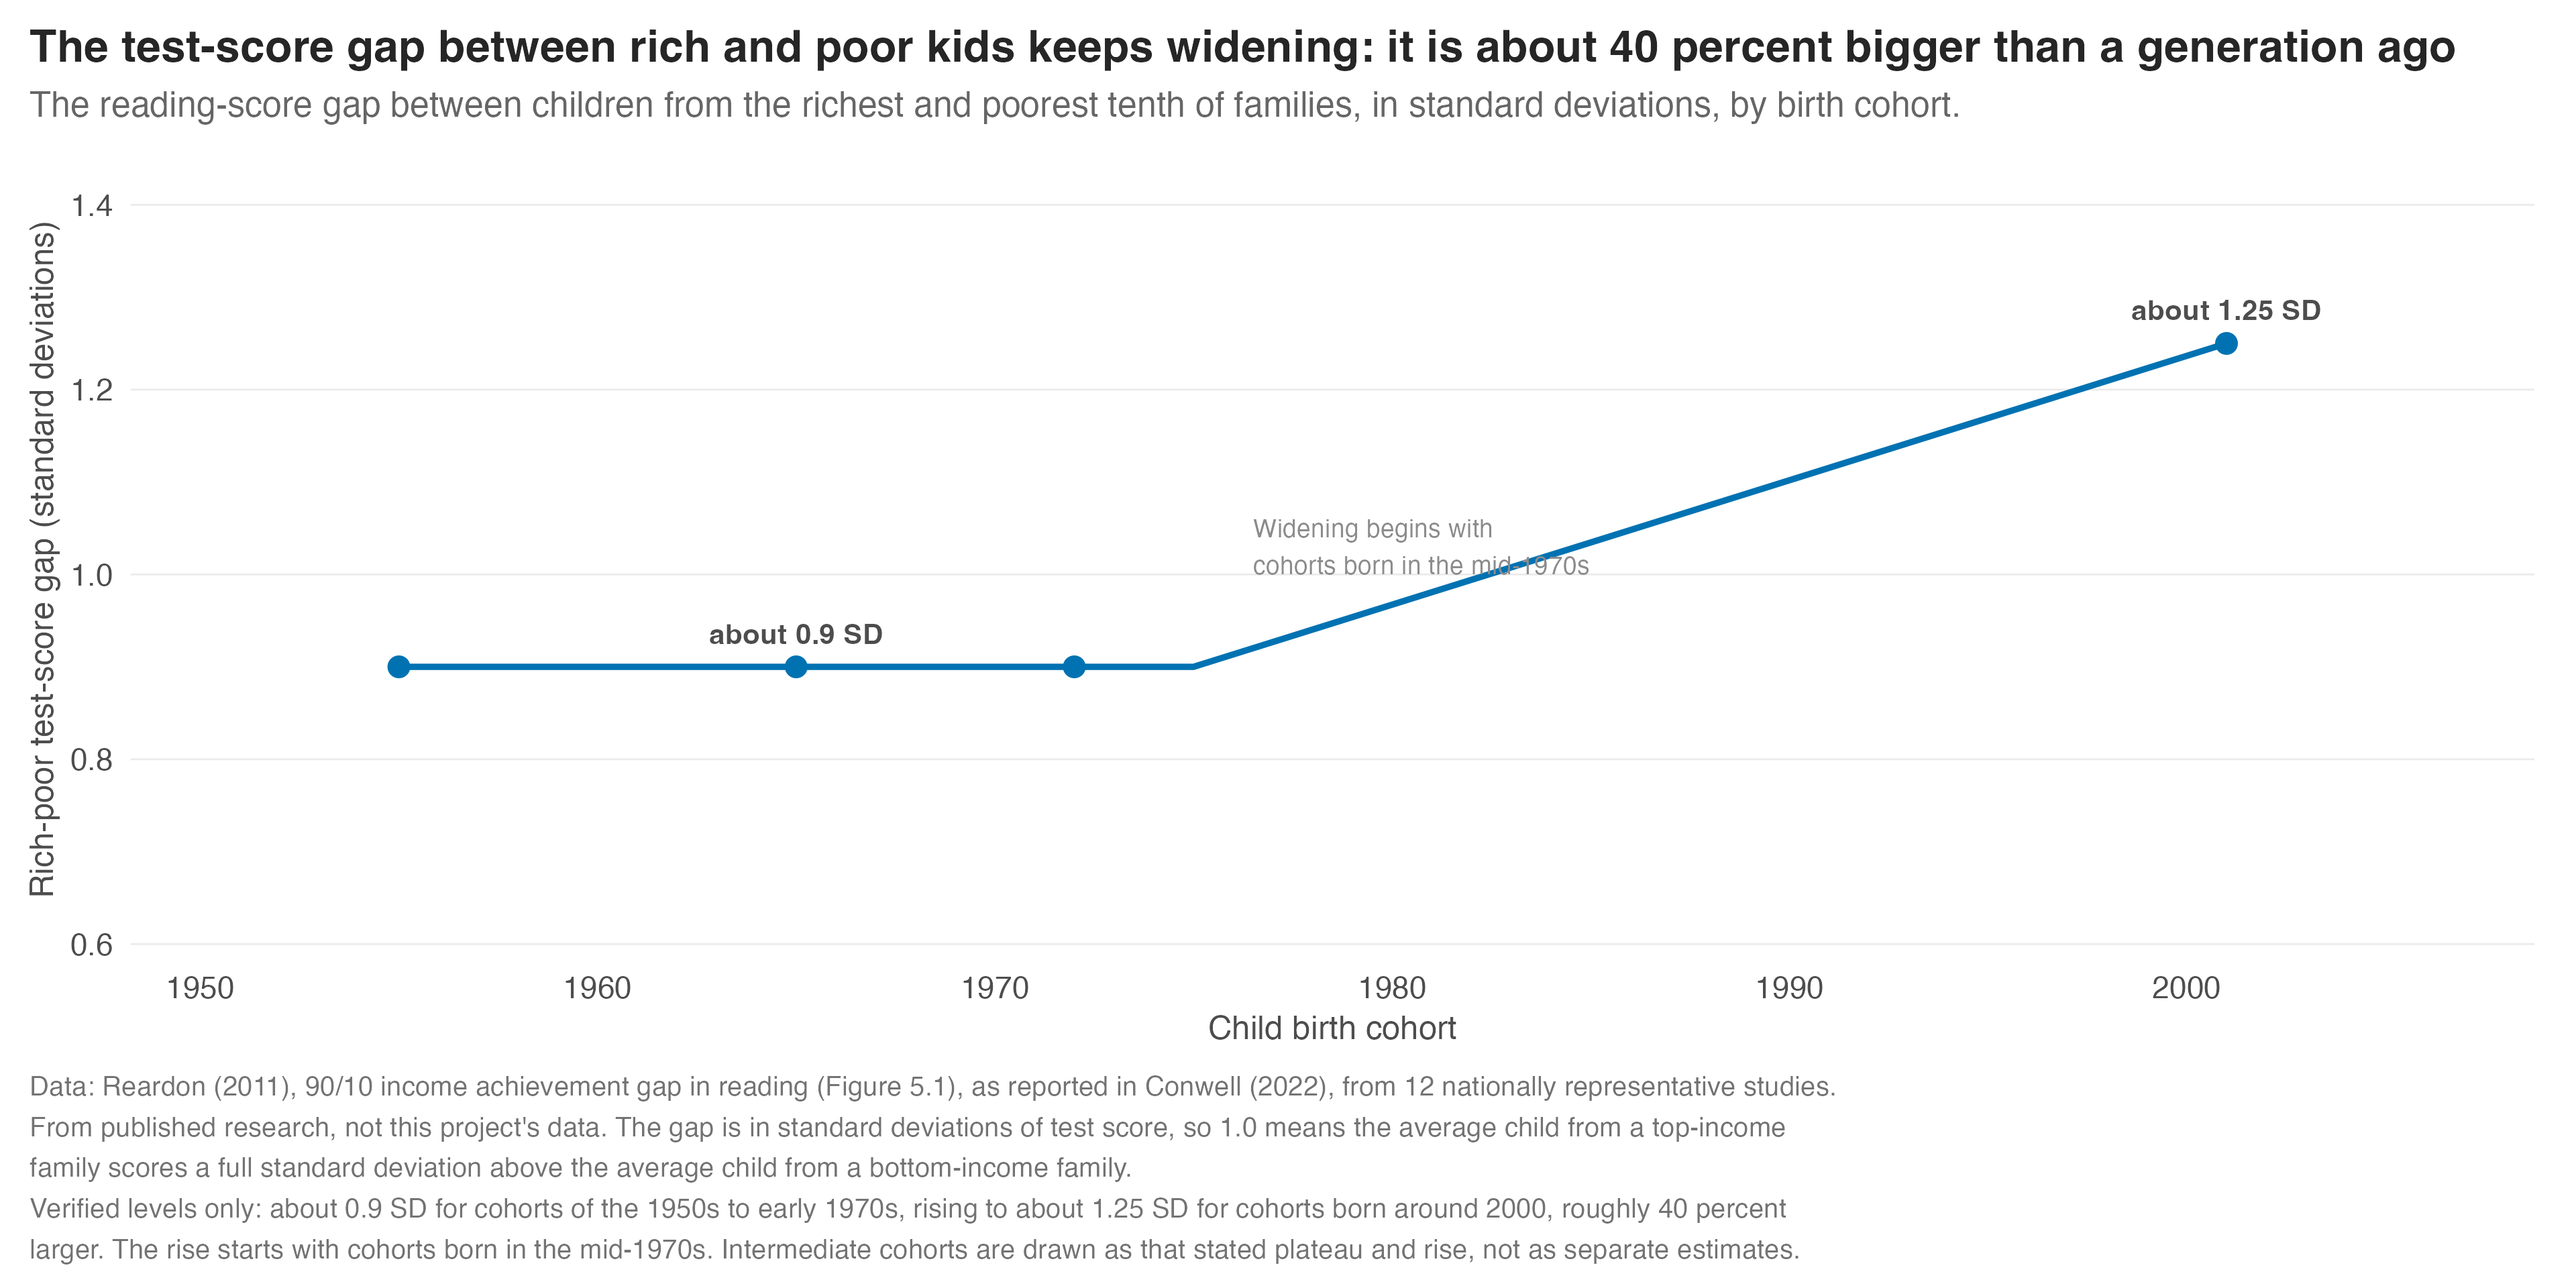
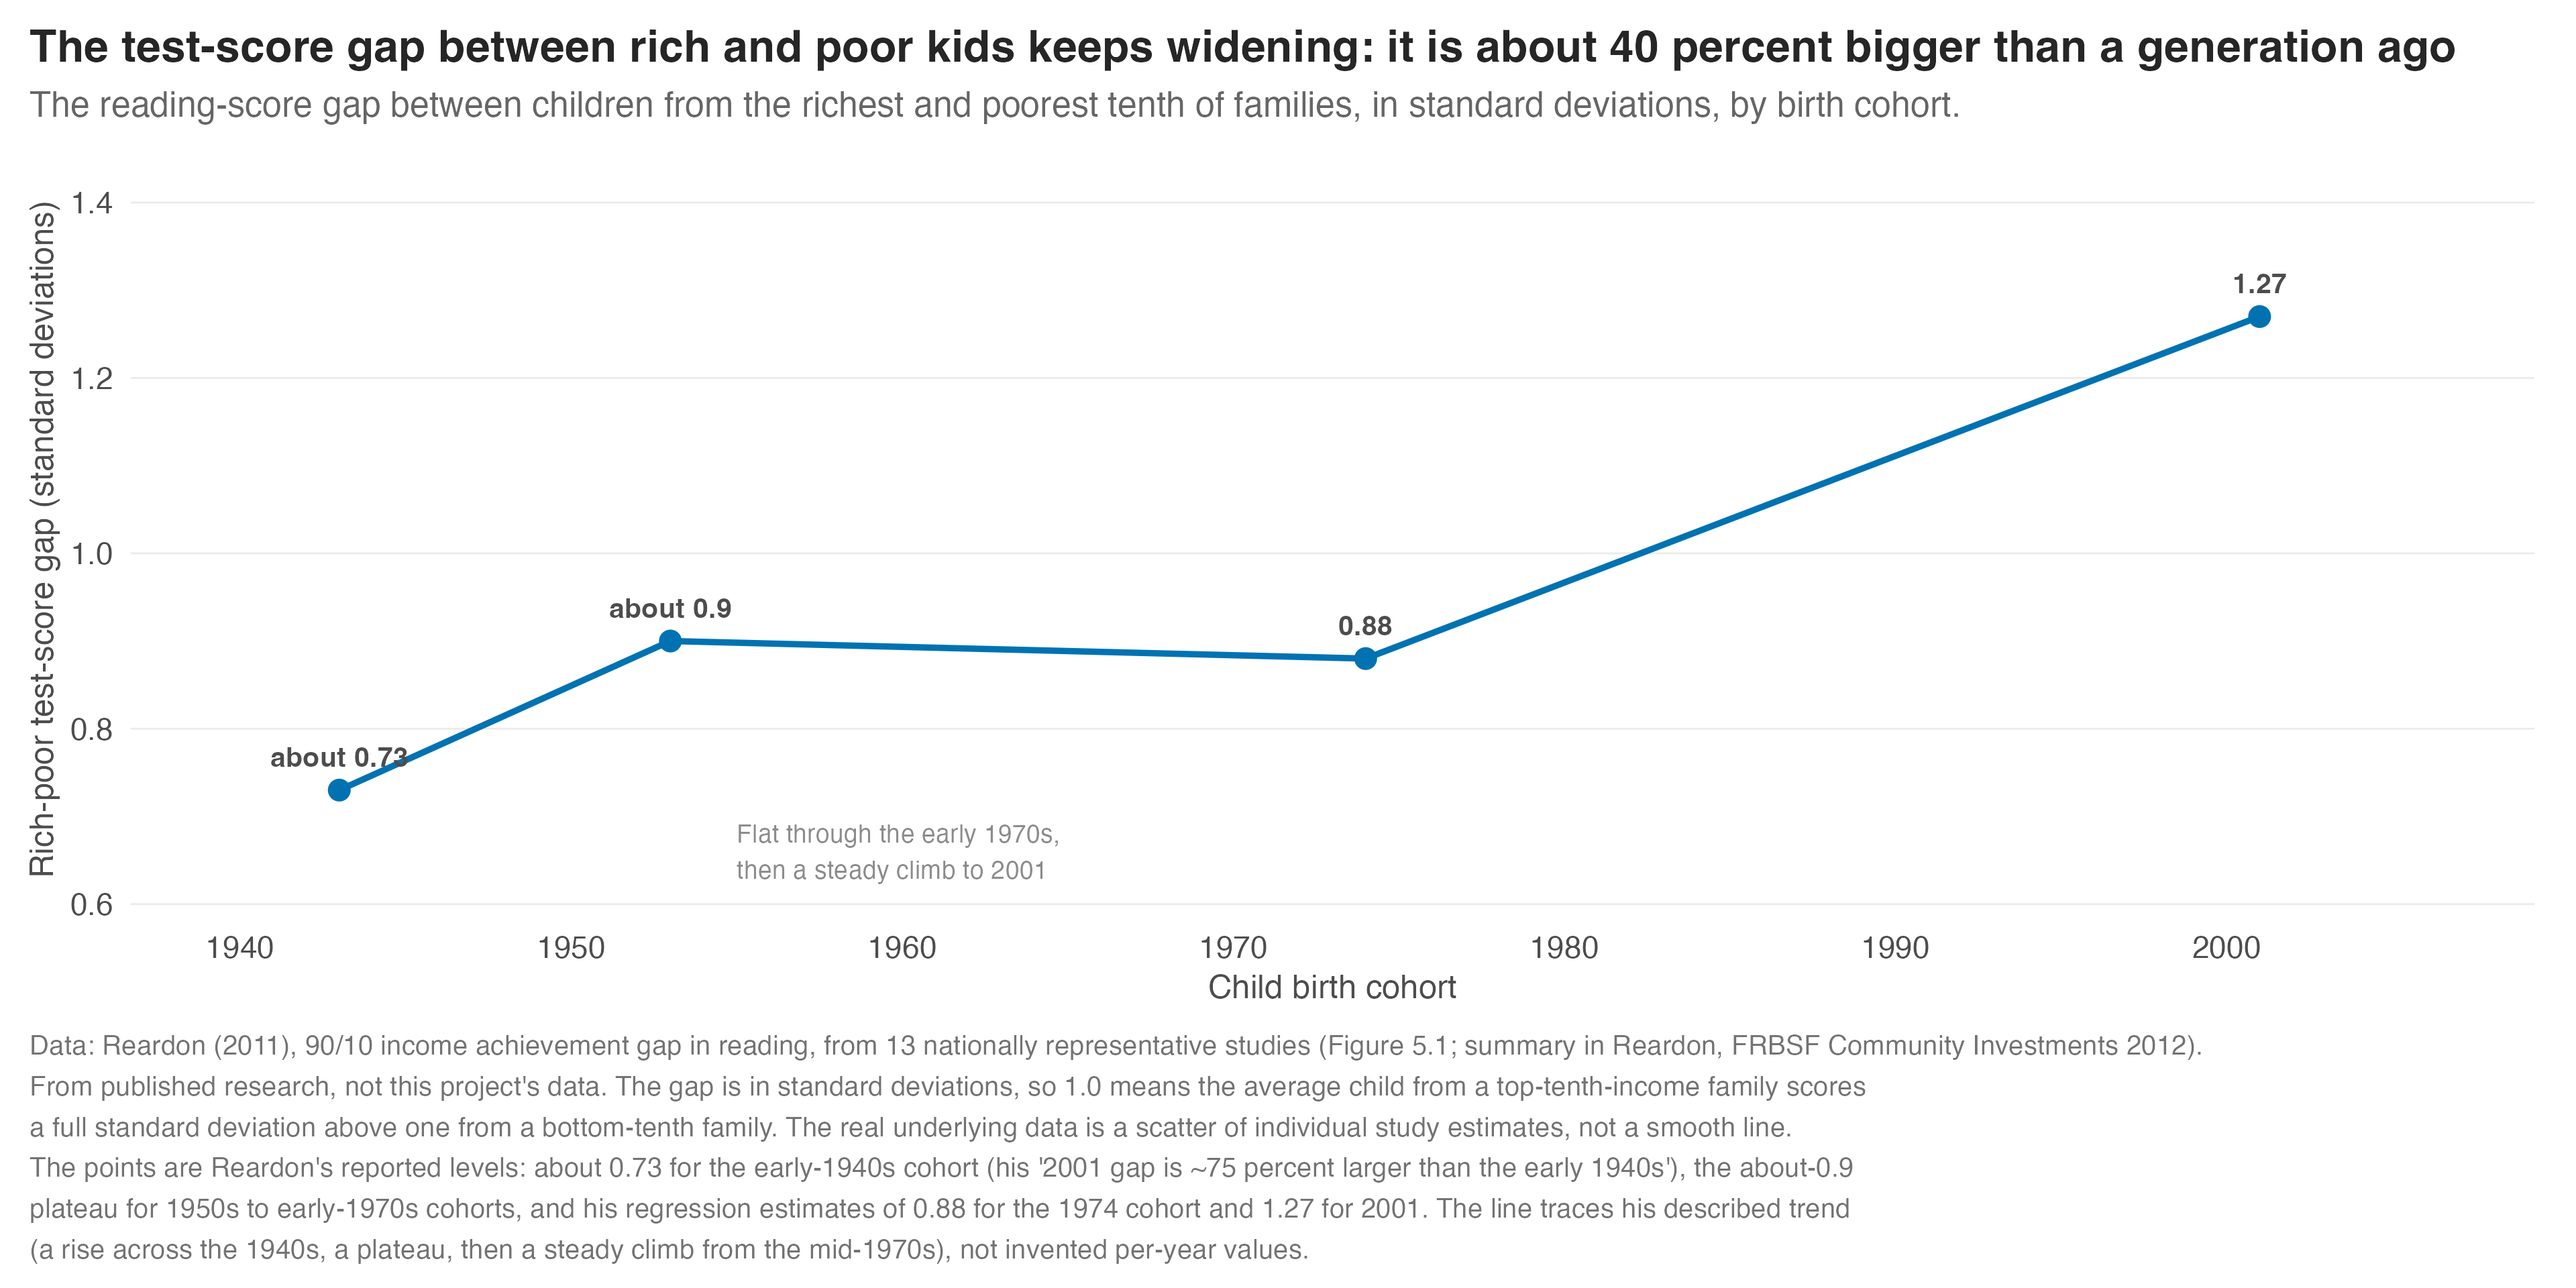
fix: test-score gap over-time chart shows Reardon's real 3-phase shape (Michael's "too straight" note)
The old chart was a 2-point interpolation (flat 0.9 to ~1975, straight ramp to
1.25), which Michael correctly flagged as suspiciously linear. Rebuilt on Reardon's
own reported levels: early-1940s cohort ~0.73 (his "2001 gap ~75% larger than early
1940s", 1.27/1.75), the ~0.9 plateau for 1950s-early1970s cohorts, and his Model 4
regression estimates 0.88 (1974) and 1.27 (2001). Line now traces his described
trend (rise across the 1940s, plateau, steady climb from the mid-1970s). Caption is
explicit that the underlying data is a scatter of 13 studies and which points are
exact vs stated vs derived. Sourced from the Whither Opportunity appendix + Reardon's
FRBSF 2012 summary. No fabricated per-year values.

Claude-Session: https://claude.ai/code/session_01RYr7QykH5RmY1tzkRQT4SW

diff --git a/docs/birthday-advantage.html b/docs/birthday-advantage.html
@@ -643,10 +643,10 @@
         <img src="figures/ba_testscore_income.png" alt="Line chart of average SAT total score by family income band, climbing monotonically from 1326 for families under 20k dollars to 1714 for families over 200k dollars.">
         <figcaption>Average SAT total by family income band, 2013 college-bound seniors, from the College Board. A 388-point gap. Published data, not ours. Built by R/58.</figcaption>
       </figure>
-      <p class="row found"><span class="lab">And over time (his follow-up):</span> the gap is not just big, it is growing. The reading-score gap between the richest and poorest tenth of families widened from about 0.9 standard deviations for kids born through the early 1970s to about 1.25 for kids born around 2000, roughly 40 percent bigger than a generation ago.</p>
+      <p class="row found"><span class="lab">And over time (his follow-up):</span> the gap is not just big, it is growing. The reading-score gap between the richest and poorest tenth of families rose across the 1940s cohorts, held flat around 0.9 standard deviations for kids born from the 1950s through the early 1970s, then climbed steadily to 1.27 for kids born around 2000, roughly 40 percent bigger than a generation ago. Michael noticed the first version of this looked too straight. It was, because it only had two points; the real data is a scatter of 13 separate studies, so this is redrawn on Reardon's own reported levels and traces those three phases (a rise, a plateau, then the modern climb) rather than one ramp.</p>
       <figure>
-        <img src="figures/ba_testscore_income_overtime.png" alt="Line chart of the rich-poor reading-score gap by birth cohort, flat near 0.9 standard deviations through the early 1970s cohorts, then rising to about 1.25 for kids born around 2000.">
-        <figcaption>The rich-poor reading-score gap by birth cohort, flat near 0.9 SD then rising to 1.25. From Reardon (2011). Published research, not ours. Built by R/59.</figcaption>
+        <img src="figures/ba_testscore_income_overtime.png" alt="Line chart of the rich-poor reading-score gap by birth cohort: about 0.73 standard deviations for the early-1940s cohort, rising to about 0.9 and holding flat through the early 1970s, then climbing to 1.27 for kids born around 2000.">
+        <figcaption>The rich-poor reading-score gap by birth cohort: a rise across the 1940s, a plateau near 0.9, then a climb to 1.27. Points are Reardon's reported levels. From Reardon (2011). Published research, not ours. Built by R/59.</figcaption>
       </figure>
       <p class="row found"><span class="lab">And into the top 1 percent (his latest):</span> he flagged that "over 200k" is not rich enough to isolate the wealthy, so here is the same story by parent income percentile, into the top 0.1 percent. The share scoring 1300 or higher on the SAT does not flatten at the top, it steepens: about 2 percent in the middle of the distribution, 14 percent in the top decile, and 33 percent, one in three, in the top 0.1 percent. The very richest kids are roughly 14 times more likely to clear that bar than middle-income kids.</p>
       <figure>
